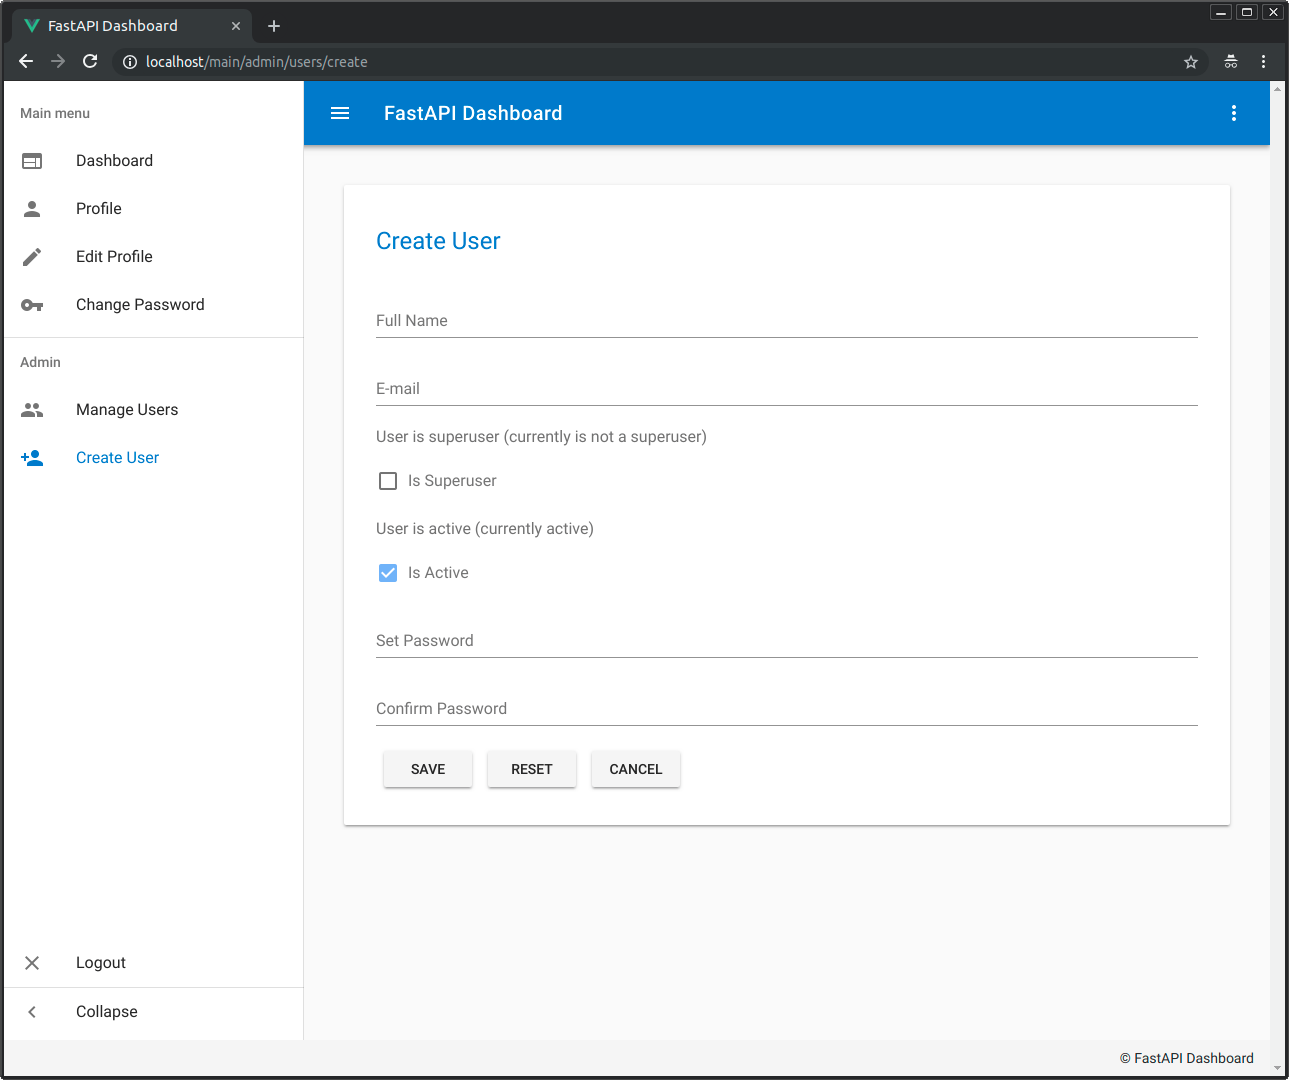
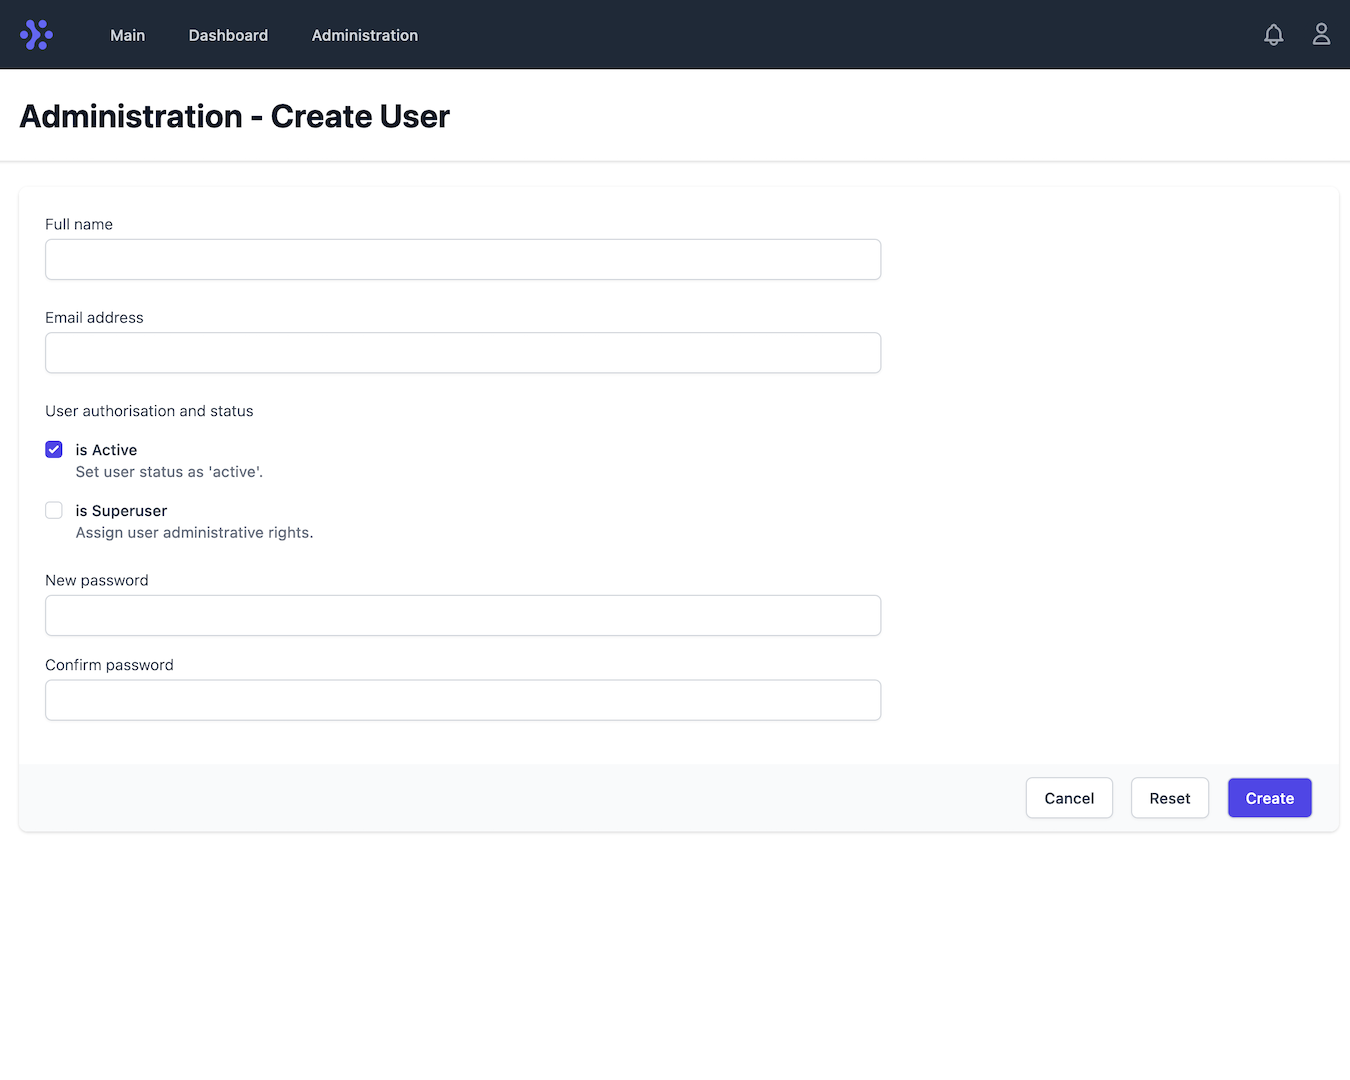
Update READMEs with NuxtJS info and screenshots

diff --git a/{{cookiecutter.project_slug}}/frontend/README.md b/{{cookiecutter.project_slug}}/frontend/README.md
@@ -6,7 +6,11 @@ Accelerate your next FastAPI Base Project Generator frontend development by repl
 
 ## Build Setup
 
+### Project
+
 First deploy FastAPI's [Base Project Generator](https://github.com/tiangolo/full-stack-fastapi-postgresql), then replace the entire `frontend` folder with this one, updating the `.env` settings, and `nuxt.config.js`, and `package.json` <i>'frontend'</i> project name with your own.
+
+### Yarn
 
 ```bash
 # install dependencies
@@ -24,6 +28,38 @@ $ yarn generate
 ```
 
 Hot reload does not work in WSL2 (only WSL1, as of 1 April 2021). For detailed explanation on how things work, check out [Nuxt.js docs](https://nuxtjs.org).
+
+### Docker
+
+A [Docker](https://www.docker.com/) configuration is also provided. The _Dockerfile_ is divided into four [build stages](https://docs.docker.com/develop/develop-images/multistage-build/):
+
+1. `build`:
+   - Copy files from the repo into the Docker container
+   - Install dependencies from _package.json_ with Yarn
+   - Build the Nuxt.js app with [server-side rendering](https://nuxtjs.org/docs/2.x/concepts/server-side-rendering) (SSR) in [standalone mode](https://nuxtjs.org/docs/2.x/configuration-glossary/configuration-build#standalone)
+2. `run-dev`: use the build stage to run the dev server, which can hot-reload within the Docker container if the source code is mounted
+3. `run-start`: use the build stage to run [`nuxt start`](https://nuxtjs.org/docs/2.x/get-started/commands), with all dependencies from the build
+4. `run-minimal`: this image is less than 1/6 the size of the others (262 MB vs. 1.72 GB)
+   - Pull a Node.js image running on Alpine Linux
+   - Copy the built Nuxt.js app from the `build` stage, without `node_modules`
+   - Install `nuxt-start`, with the minimal runtime for Nuxt.js (needed in addition to the inlined dependencies from standalone mode)
+   - Run the `nuxt start` command using the `nuxt-start` module to start the SSR application
+
+To work with the Docker configuration:
+
+```sh
+cd /path/to/full-stack-fastapi-postgresql/{{cookiecutter.project_slug}}/frontend
+
+# build and run the development environment with hot-reloading
+docker build . --rm --target run-dev -t localhost/whythawk/nuxt-for-fastapi:run-dev
+docker run -it -p 3000:3000 -v $(pwd):/app --env-file $(pwd)/.env localhost/whythawk/nuxt-for-fastapi:run-dev
+
+# build and run the minimal production environment
+docker build . --rm --target run-minimal -t localhost/whythawk/nuxt-for-fastapi:run-minimal
+docker run --env-file $(pwd)/.env -it -p 3000:3000 localhost/whythawk/nuxt-for-fastapi:run-minimal
+```
+
+Then browse to http://localhost:3000 to see the homepage.
 
 ## Nuxt.js and components
 

diff --git a/README.md b/README.md
@@ -44,20 +44,15 @@ Generate a backend and frontend stack using Python, including interactive API do
 * REST backend tests based on **Pytest**, integrated with Docker, so you can test the full API interaction, independent on the database. As it runs in Docker, it can build a new data store from scratch each time (so you can use ElasticSearch, MongoDB, CouchDB, or whatever you want, and just test that the API works).
 * Easy Python integration with **Jupyter Kernels** for remote or in-Docker development with extensions like Atom Hydrogen or Visual Studio Code Jupyter.
 * **Vue** frontend:
-    * Generated with Vue CLI.
     * **JWT Authentication** handling.
     * Login view.
     * After login, main dashboard view.
     * Main dashboard with user creation and edition.
     * Self user edition.
-    * **Vuex**.
-    * **Vue-router**.
-    * **Vuetify** for beautiful material design components.
     * **TypeScript**.
-    * Docker server based on **Nginx** (configured to play nicely with Vue-router).
+    * Docker server
     * Docker multi-stage building, so you don't need to save or commit compiled code.
-    * Frontend tests ran at build time (can be disabled too).
-    * Made as modular as possible, so it works out of the box, but you can re-generate with Vue CLI or create it as you need, and re-use what you want.
+    * Made as modular as possible, so it works out of the box, but you can re-generate as you need, and re-use what you want.
     * It's also easy to remove it if you have an API-only app, check the instructions in the generated `README.md`.
 * **PGAdmin** for PostgreSQL database, you can modify it to use PHPMyAdmin and MySQL easily.
 * **Flower** for Celery jobs monitoring.

diff --git a/{{cookiecutter.project_slug}}/README.md b/{{cookiecutter.project_slug}}/README.md
@@ -8,7 +8,7 @@
 
 ## Frontend Requirements
 
-* Node.js (with `npm`).
+* Node.js (with `yarn`).
 
 ## Backend local development
 
@@ -360,37 +360,7 @@ and check all the corresponding available URLs in the section at the end.
 
 ## Frontend development
 
-* Enter the `frontend` directory, install the NPM packages and start the live server using the `npm` scripts:
-
-```bash
-cd frontend
-npm install
-npm run serve
-```
-
-Then open your browser at http://localhost:8080
-
-Notice that this live server is not running inside Docker, it is for local development, and that is the recommended workflow. Once you are happy with your frontend, you can build the frontend Docker image and start it, to test it in a production-like environment. But compiling the image at every change will not be as productive as running the local development server with live reload.
-
-Check the file `package.json` to see other available options.
-
-If you have Vue CLI installed, you can also run `vue ui` to control, configure, serve, and analyze your application using a nice local web user interface.
-
-If you are only developing the frontend (e.g. other team members are developing the backend) and there is a staging environment already deployed, you can make your local development code use that staging API instead of a full local Docker Compose stack.
-
-To do that, modify the file `./frontend/.env`, there's a section with:
-
-```
-VUE_APP_ENV=development
-# VUE_APP_ENV=staging
-```
-
-* Switch the comment, to:
-
-```
-# VUE_APP_ENV=development
-VUE_APP_ENV=staging
-```
+See the [frontend README](./frontend/README.md) for instructions.
 
 ### Removing the frontend
 
